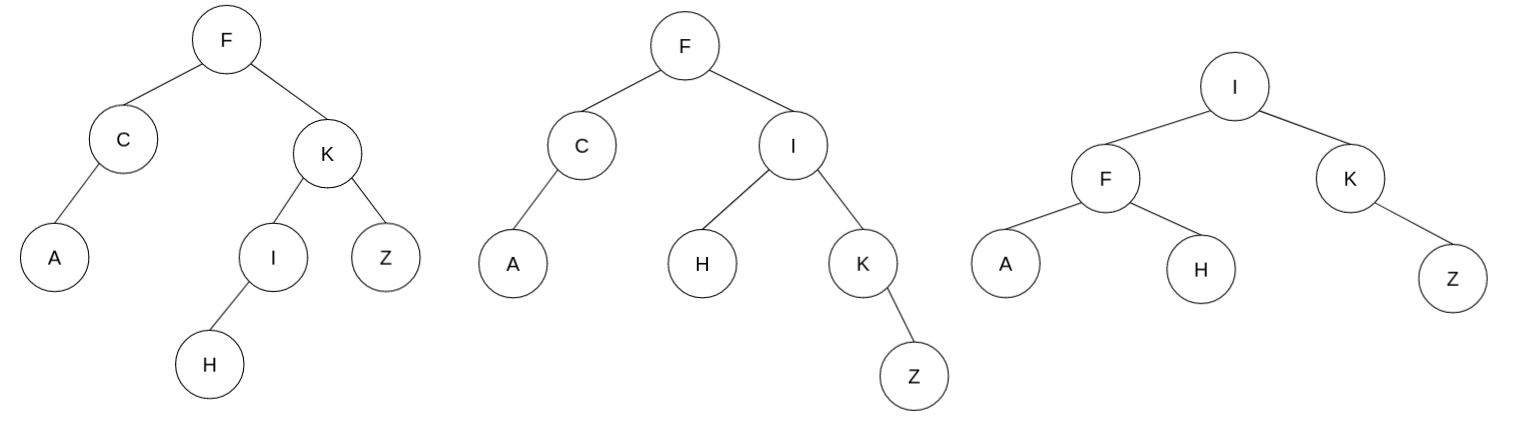
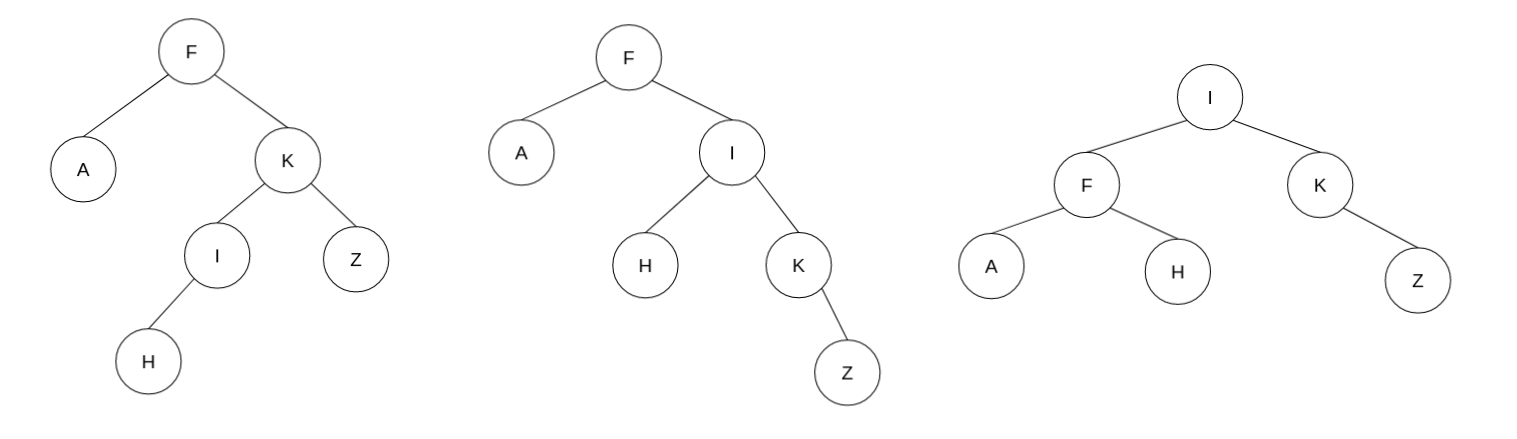
Add question 2

diff --git a/COS212/examprep/Exam2/memo/README.md b/COS212/examprep/Exam2/memo/README.md
@@ -54,21 +54,20 @@ by substituting the letters in place of the roman numerals. Rotate (i) about (ii
 ```
 
 
-[comment]: <> (## Question 2: [Self Adjusting Trees]&#40;https://gitlab.com/Paul_Wood_96/tutoring/-/blob/master/COS212/notes/SelfAdjustingTrees/README.md&#41;)
+## Question 2: [Self Adjusting Trees](https://gitlab.com/Paul_Wood_96/tutoring/-/blob/master/COS212/notes/SelfAdjustingTrees/README.md)
 
-[comment]: <> (For all questions that follow assume the tree)
+For all questions that follow assume the tree
 
-[comment]: <> (<img src="images/splay_tree.png" alt="splay tree">)
+<img src="../images/splay_tree.png" alt="splay tree">
 
-[comment]: <> (2.1&#41; Show the final tree after the value 7 was accessed using a full Splay)
+2.1) Show the final tree after the value 7 was accessed using a full Splay
 
-[comment]: <> (<img src="images/full_splay.png" alt="full splay answer">)
+<img src="images/full_splay.png" alt="full splay answer">
 
-[comment]: <> (2.2&#41; Using the original tree before your answer in 2.1 show the final tree if instead value 34 was accessed using a half)
+2.2) Using the original tree before your answer in 2.1 show the final tree if instead value 34 was accessed using a half
+splay
 
-[comment]: <> (splay)
-
-[comment]: <> (<img src="images/half_splay.png" alt="half splay">)
+<img src="images/half_splay.png" alt="half splay">
 
 
 [comment]: <> (## Question 3: [Heaps]&#40;https://gitlab.com/Paul_Wood_96/tutoring/-/blob/master/COS212/notes/Heaps/README.md&#41;)
@@ -241,3 +240,20 @@ by substituting the letters in place of the roman numerals. Rotate (i) about (ii
 [comment]: <> (128)
 
 [comment]: <> (```)
+
+[comment]: <> (For all the questions that follow assume the following B* Tree, when a Node overflows assume you should pass left before)
+
+[comment]: <> (passing right.)
+
+[comment]: <> (<img src="../images/b*_tree.png" alt="b* tree">)
+
+[comment]: <> (5.5.1&#41; Insert the key 3 and, draw the final tree)
+
+[comment]: <> (<img src="images/insert_3_b*.png" alt="insert 3 in B*">)
+
+[comment]: <> (5.5.2&#41; Insert the key 4 and, draw the final tree)
+
+[comment]: <> (    *)
+
+
+

diff --git a/COS212/examprep/Exam2/README.md b/COS212/examprep/Exam2/README.md
@@ -145,7 +145,11 @@ passing right.
 
 <img src="images/b*_tree.png" alt="b* tree">
 
-5.5) Insert the key 3 and, draw the final tree
+5.5.1) Insert the key 3 and, draw the final tree
+
+    *
+
+5.5.2) Insert the key 4 and, draw the final tree
 
     *
 
